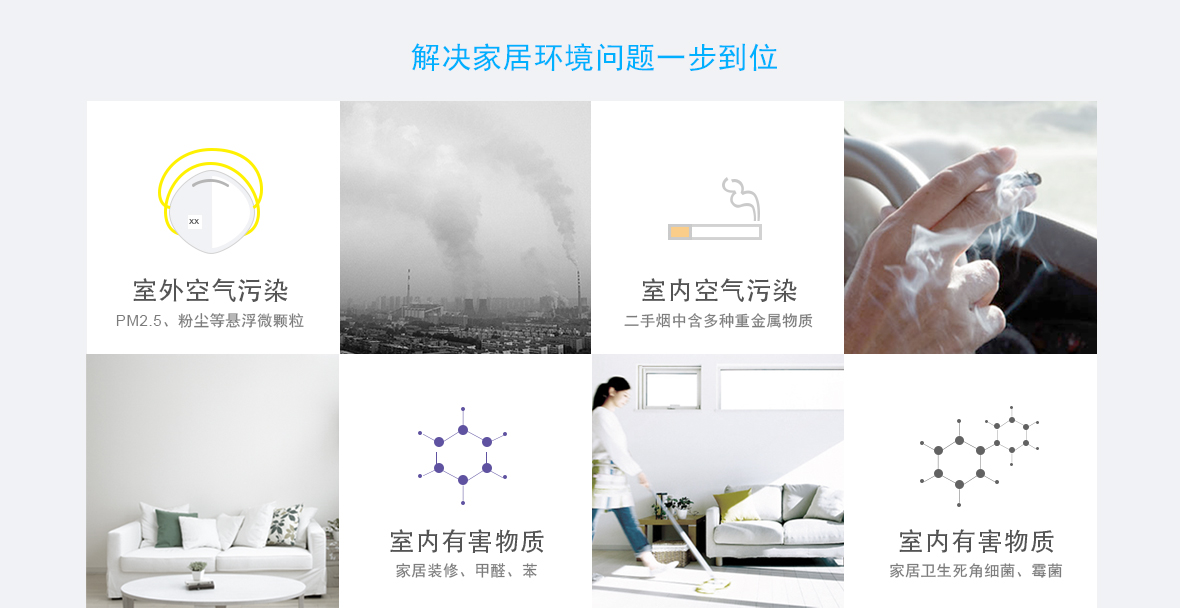
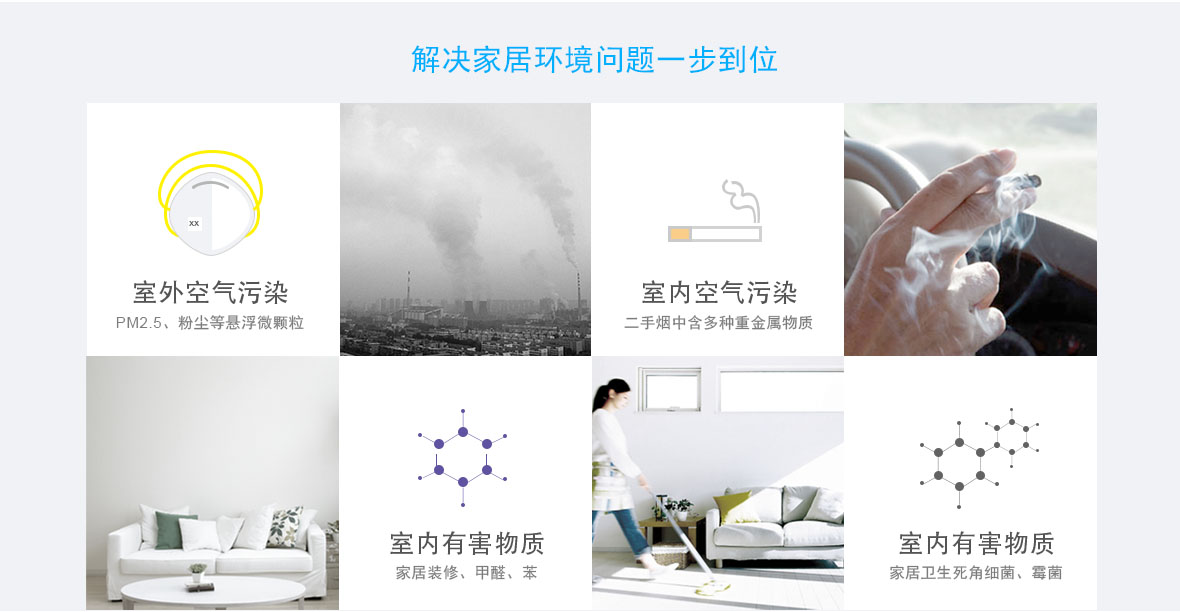
update

diff --git a/dkl.html b/dkl.html
@@ -74,10 +74,10 @@
 				background:#f1f2f5;
 			}
 			#dkl .ui.bg.grid{
-				background:url(images/products/dkl-bg.jpg) no-repeat center bottom /cover;
+				background:url(images/products/dkl-bg.jpg) no-repeat center center /cover;
 			}
 			#dkl .ui.bg-1.grid{
-				background:url(images/products/dkl-bg1.jpg) no-repeat center bottom /cover;
+				background:url(images/products/dkl-bg1.jpg) no-repeat center center /cover;
 			}
 		</style>
 		<link rel="stylesheet" href="css/semantic.min.css" type="text/css" />
@@ -98,8 +98,16 @@
 				<a class="item" href="contact.html">联系我们</a>
 			</div>
 		</header>
-		
-		
+			<section class="ui level responsive grid">
+				<div class="row">
+					<div class="eight wide column">
+						<p>CS-430WR 空气净化器</p>
+					</div>
+					<div class="eight right aligned wide column">
+						<p>特色 ｜ 功能 ｜ 参数 ｜ &nbsp;&nbsp;&nbsp;&nbsp;<a href="" class="btn">立即购买</a></p>
+					</div>
+				</div>
+			</section>
 		<div id="dkl">
 			<section class="ui gary grid">
 				<div class="ui responsive grid">

diff --git a/css/base.css b/css/base.css
@@ -1,3 +1,6 @@
+.ui.grid{
+	margin:0;
+}
 .ui.responsive.grid {
     width:1180px;
 	margin:0 auto !important;
@@ -24,6 +27,15 @@ h1.ui.header .content .sub.header{
     padding: 0 3em;
 	border-radius: 0;
 }
+header.ui.header{
+	background:#e10000;
+}
+.ui.header >.ui.menu{
+	width:1180px;
+	margin:0 auto;
+	-webkit-box-shadow: 0 0 0 0px rgba(0,0,0,.1);
+	box-shadow: 0 0 0 0px rgba(0,0,0,.1);
+}
 .ui.header > .ui.menu > .item {
 	color: #fff;
 }
@@ -39,6 +51,20 @@ h1.ui.header .content .sub.header{
 .ui.header > .ui.menu > .item:first-child:hover,
 .ui.header > .ui.menu > .active.item:first-child {
 	background-color: #e10000;
+}
+.ui.level > .row > .eight.wide:first-child{
+	padding-left:115px;
+}
+.right.aligned{
+	float:right;
+}
+.ui.level a.btn{
+	padding: .6em .8em;
+	font-size: 14px;
+	background: #00b0ff;
+	color: #fff;
+	text-decoration: none;
+	border-radius: 3px;
 }
 
 #frslide {

diff --git a/lcm.html b/lcm.html
@@ -67,11 +67,14 @@
 				font-size: 14px;
 			}
 			
+			#lcm{
+				border-top: 1px solid rgba(0,0,0,.1);
+			}
 			#lcm img{
 				width:100%;
 			}
 			#lcm .ui.gary{
-				background:#f1f2f5;
+				background:#f5f5f5;
 			}
 			#lcm .ui.green{
 				background:#00c4ff;
@@ -95,7 +98,16 @@
 				<a class="item" href="contact.html">联系我们</a>
 			</div>
 		</header>
-		
+		<section class="ui level responsive grid">
+			<div class="row">
+				<div class="eight wide column">
+					<p>CMAP-082WR 空气净化器</p>
+				</div>
+				<div class="eight right aligned wide column">
+					<p>特色 ｜ 功能 ｜ 参数 ｜ &nbsp;&nbsp;&nbsp;&nbsp;<a href="" class="btn">立即购买</a></p>
+				</div>
+			</div>
+		</section>
 		
 		<div id="lcm">
 			<section class="ui responsive grid">

diff --git a/xkl.html b/xkl.html
@@ -95,12 +95,19 @@
 				<a class="item" href="contact.html">联系我们</a>
 			</div>
 		</header>
-		
+		<section class="ui level responsive grid">
+			<div class="row">
+				<div class="eight wide column">
+					<p>CS-083WR 空气净化器</p>
+				</div>
+				<div class="eight right aligned wide column">
+					<p>特色 ｜ 功能 ｜ 参数 ｜ &nbsp;&nbsp;&nbsp;&nbsp;<a href="" class="btn">立即购买</a></p>
+				</div>
+			</div>
+		</section>
 		
 		<div id="xkl">
-			<section class="ui responsive grid">
 				<img src="images/products/xkl_01.jpg">
-			</section>
 			<section class="ui gary grid">
 				<div class="ui responsive grid">
 					<img src="images/products/xkl_02.jpg">

diff --git a/car.html b/car.html
@@ -95,12 +95,19 @@
 				<a class="item" href="contact.html">联系我们</a>
 			</div>
 		</header>
-		
+		<section class="ui level responsive grid">
+			<div class="row">
+				<div class="eight wide column">
+					<p>贝马卫士</p>
+				</div>
+				<div class="eight right aligned wide column">
+					<p>特色 ｜ 功能 ｜ 参数 ｜ &nbsp;&nbsp;&nbsp;&nbsp;<a href="" class="btn">立即购买</a></p>
+				</div>
+			</div>
+		</section>
 		
 		<div id="car">
-			<section class="ui responsive grid">
 				<img src="images/products/car_01.jpg">
-			</section>
 			<section class="ui responsive grid">
 				<img src="images/products/car_02.jpg">
 			</section>

diff --git a/cm.html b/cm.html
@@ -68,6 +68,7 @@
 			}
 			
 			
+			
 			#cm img{
 				width:100%;
 			}
@@ -93,8 +94,16 @@
 				<a class="item" href="contact.html">联系我们</a>
 			</div>
 		</header>
-		
-		
+		<section class="ui level responsive grid">
+			<div class="row">
+				<div class="eight wide column">
+					<p>CMAP-086WR 空气净化器</p>
+				</div>
+				<div class="eight right aligned wide column">
+					<p>特色 ｜ 功能 ｜ 参数 ｜ &nbsp;&nbsp;&nbsp;&nbsp;<a href="" class="btn">立即购买</a></p>
+				</div>
+			</div>
+		</section>
 		<div id="cm">
 			<img src="images/products/cm_02.jpg">
 			<section class="ui responsive grid">

diff --git a/water.html b/water.html
@@ -92,7 +92,16 @@
 				<a class="item" href="contact.html">联系我们</a>
 			</div>
 		</header>
-		
+		<section class="ui level responsive grid">
+			<div class="row">
+				<div class="eight wide column">
+					<p>卓玛泉</p>
+				</div>
+				<div class="eight right aligned wide column">
+					<p>特色 ｜ 功能 ｜ 参数 ｜ &nbsp;&nbsp;&nbsp;&nbsp;<a href="" class="btn">立即购买</a></p>
+				</div>
+			</div>
+		</section>
 		
 		<div id="water">
 				<img src="images/products/water_01.jpg">
